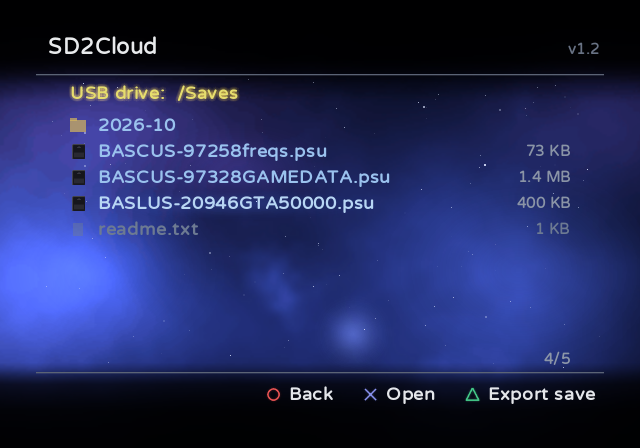
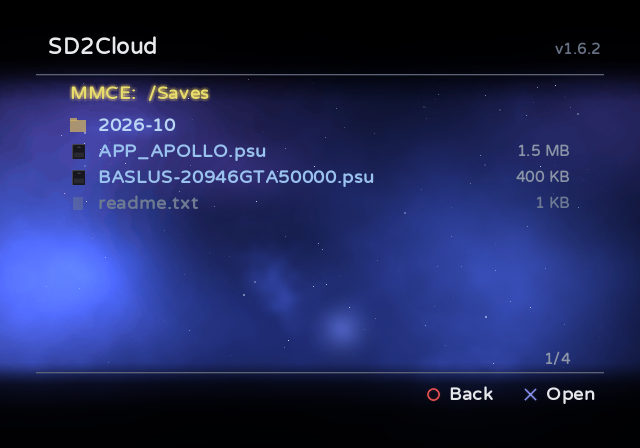
The README's screenshots, of the current version
Four of them were of 1.2 and 1.0, with buttons and texts the screens no longer have: the main screen (now on
the Games tab), a card's saves, a save being uploaded to Google Drive (one save, not a whole card) and the Files
tab (a folder of the MMCE). Taken on PCSX2 with real memory cards. A save's page and a .psu's are as they were.

diff --git a/README.pt-BR.md b/README.pt-BR.md
@@ -27,10 +27,10 @@ SD2Cloud ainda não foi testado em um.
 </p>
 <p>
   <img src="docs/screens/save-pt.png" width="49%" alt="Página dos dados salvos de um jogo">
-  <img src="docs/screens/upload-pt.png" width="49%" alt="Cartão de memória de um jogo sendo enviado ao Google Drive">
+  <img src="docs/screens/upload-pt.png" width="49%" alt="Um save de jogo sendo enviado ao Google Drive">
 </p>
 <p>
-  <img src="docs/screens/files-pt.png" width="49%" alt="Aba Arquivos: uma pasta de um pendrive USB com arquivos .psu">
+  <img src="docs/screens/files-pt.png" width="49%" alt="Aba Arquivos: uma pasta do MMCE com arquivos .psu">
   <img src="docs/screens/psu-pt.png" width="49%" alt="Um arquivo .psu prestes a ser importado para um cartão de memória">
 </p>
 

diff --git a/README.md b/README.md
@@ -27,10 +27,10 @@ on one yet.
 </p>
 <p>
   <img src="docs/screens/save-en.png" width="49%" alt="The page of a game's saved data">
-  <img src="docs/screens/upload-en.png" width="49%" alt="A game's memory card being uploaded to Google Drive">
+  <img src="docs/screens/upload-en.png" width="49%" alt="A game's save being uploaded to Google Drive">
 </p>
 <p>
-  <img src="docs/screens/files-en.png" width="49%" alt="The Files tab: a folder of a USB drive with .psu files">
+  <img src="docs/screens/files-en.png" width="49%" alt="The Files tab: a folder of the MMCE with .psu files">
   <img src="docs/screens/psu-en.png" width="49%" alt="A .psu file about to be imported into a memory card">
 </p>
 
